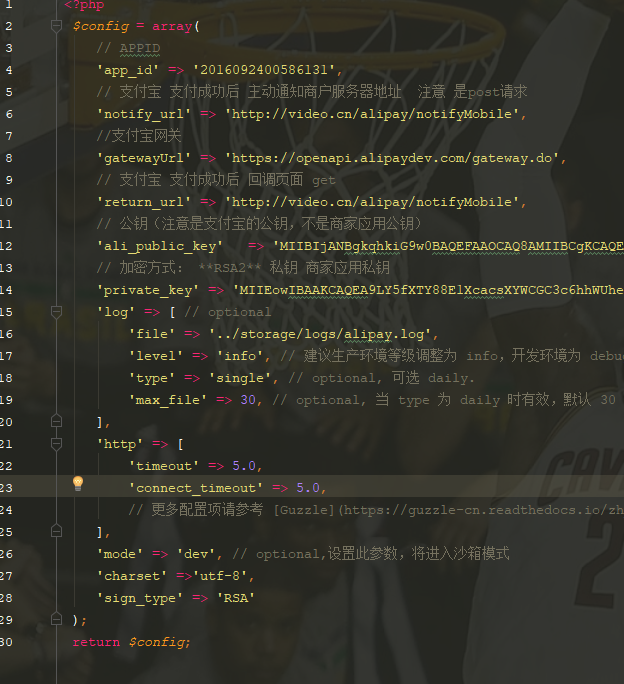
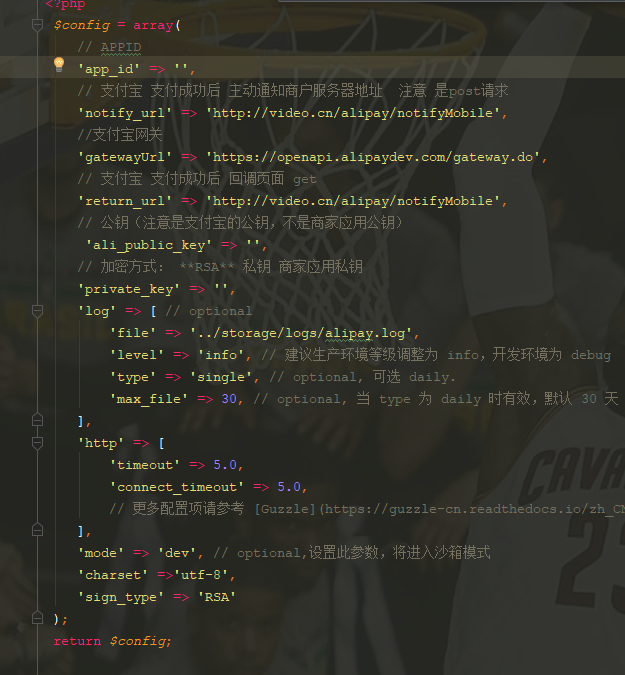
说明文档

diff --git a/config/latrell-alipay-mobile.php b/config/latrell-alipay-mobile.php
@@ -1,7 +1,7 @@
 <?php
  $config = array(
     // APPID
-    'app_id' => '2016092400586131',
+    'app_id' => '',
     // 支付宝 支付成功后 主动通知商户服务器地址  注意 是post请求
     'notify_url' => 'http://video.cn/alipay/notifyMobile',
     //支付宝网关
@@ -9,9 +9,9 @@
     // 支付宝 支付成功后 回调页面 get
     'return_url' => 'http://video.cn/alipay/notifyMobile',
     // 公钥（注意是支付宝的公钥，不是商家应用公钥）
[1 lines of base64/hex data omitted]
-    // 加密方式： **RSA2** 私钥 商家应用私钥
[1 lines of base64/hex data omitted]
+     'ali_public_key' => '',
+    // 加密方式： **RSA** 私钥 商家应用私钥
+    'private_key' => '',
     'log' => [ // optional
         'file' => '../storage/logs/alipay.log',
         'level' => 'info', // 建议生产环境等级调整为 info，开发环境为 debug

diff --git a/config/latrell-alipay-web.php b/config/latrell-alipay-web.php
@@ -2,8 +2,7 @@
 return [
 
 	// 安全检验码，以数字和字母组成的32位字符。
-//	'key' => '5kxuo3xi0is0zg6rbwg4hcktetyeffxg',  //自己的
-	'key' => 'vzsabgp8t5lteayi8ofzxfe4vdr856ef',  //君凯的
+	'key' => '',  //君凯的
 
 	//签名方式
 	'sign_type' => 'MD5',

diff --git a/config/latrell-alipay.php b/config/latrell-alipay.php
@@ -2,7 +2,7 @@
 return [
 
 	//合作身份者id，以2088开头的16位纯数字。
-	'partner_id' => '2088521281497401',
+	'partner_id' => '',
 
 	//卖家支付宝帐户。
 	'seller_id' => '1549431732@qq.com'

diff --git a/README.md b/README.md
@@ -29,7 +29,6 @@ php artisan vendor:publish   选择ali支付
  服务器异步通知路径 'notify_url' => ''
  同步通知页面地址   'return_url' => '' 
 ```
-
 #####  在文件latrell-alipay.php 中设置合作者id
 ![](https://github.com/mpchruirui888/Alipay/raw/master/_v_images/3.png)
 ```
